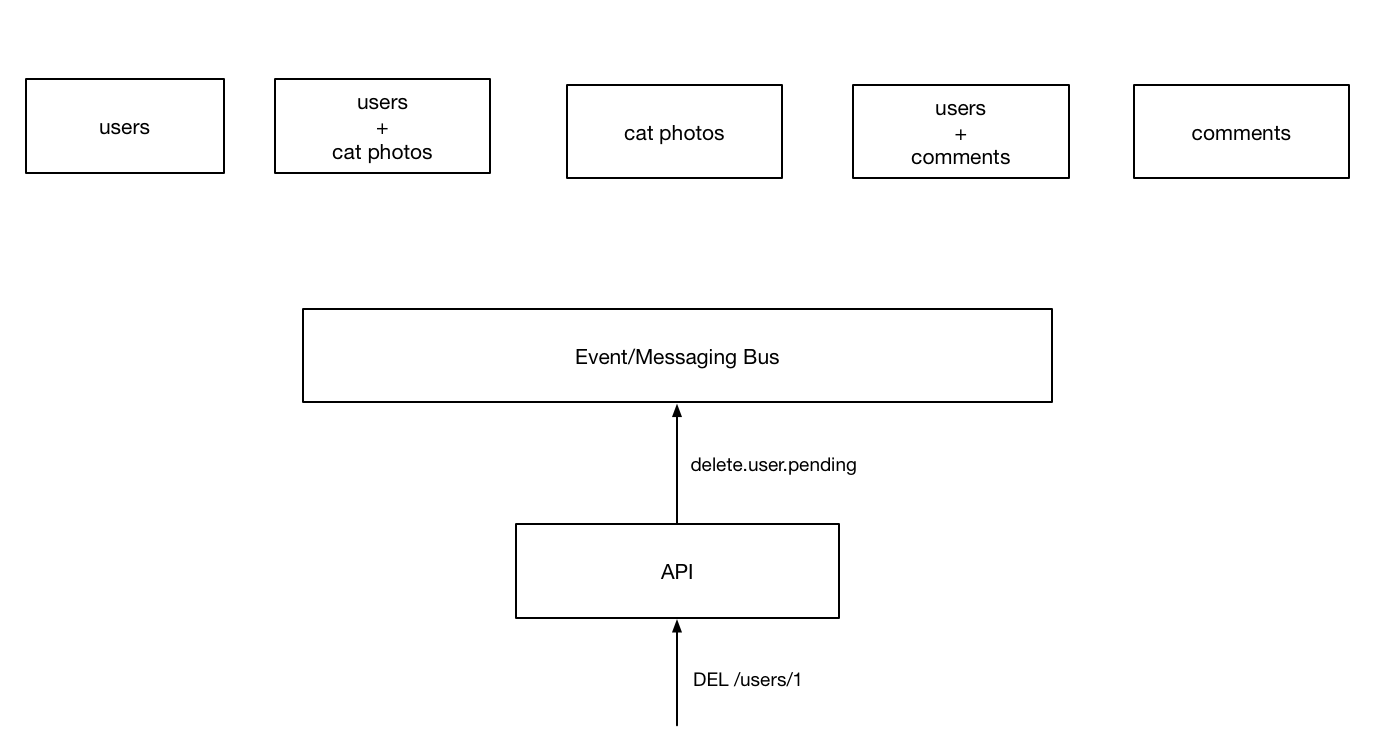
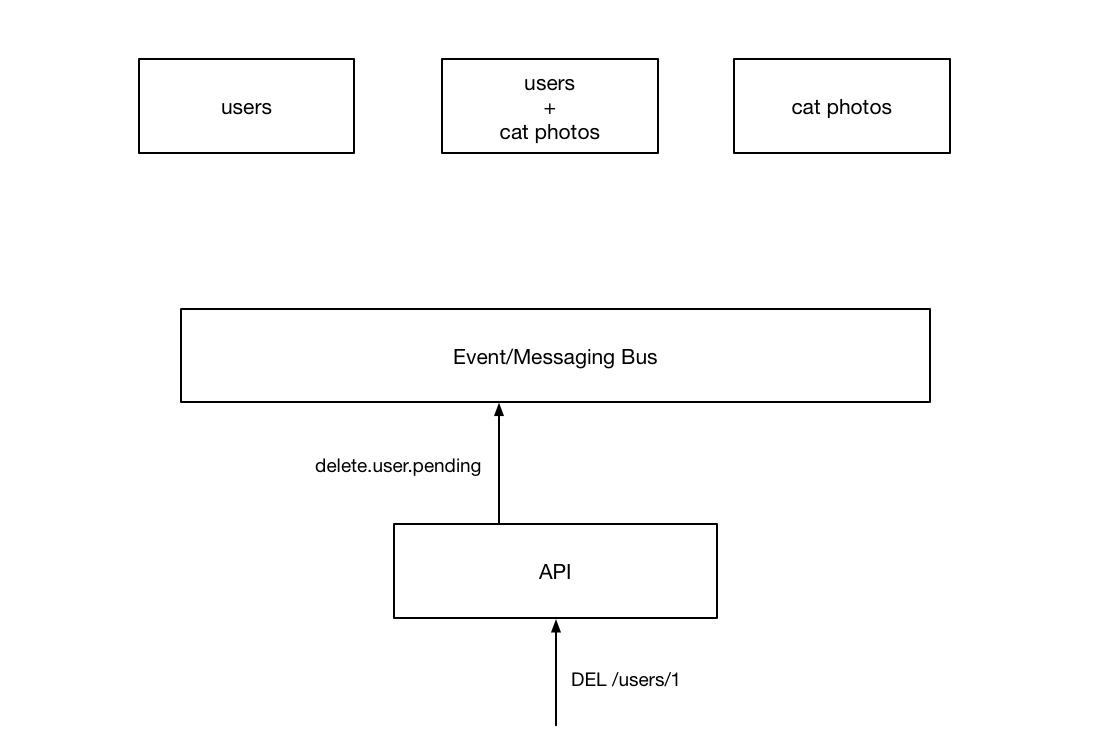
updated architecture docs photos

diff --git a/docs/source/architecture/index.rst b/docs/source/architecture/index.rst
@@ -4,9 +4,11 @@ Architecture
 Nautilus uses an event-based (also referred to as "event-sourced") architure
 that relies on a central messaging system through which all service communicate.
 
+Motivation
+-----------
 
 What's Wrong With HTTP For Inter-Service Communication?
---------------------------------------------------------
+~~~~~~~~~~~~~~~~~~~~~~~~~~~~~~~~~~~~~~~~~~~~~~~~~~~~~~~~
 Nothing. However, When one tries to apply it to a large, distributed application
 as is common today a few issues start to surface concerning its directed
 semantics. To Illustrate this, imagine that we had two services behind our
@@ -37,7 +39,16 @@ tighly coupled with each other. If something were to change in the target
 service (say the format of record's unique id), without updating the user service,
 our system would no longer be able to perform the complete action. By "polluting"
 our service with assumptions of another, we force ourselves to slow down in order
-to ensure our changes aren't going to have un-forseen consequences.
+to ensure our changes aren't going to have un-forseen consequences. This is somewhat
+alleviated by the introduction of services that maintain a very small association
+between service records - similar to how a join table works in a relational database.
+
+.. image:: http_related_cascade.png
+
+However, this does not fix all of the issues associated with handling related data
+stored across many services. In order to pull this off, the user service needs to
+maintain a list of all related services so that it can make sure the related records
+are also removed.
 
 
 
@@ -65,7 +76,7 @@ on the backend service.
 This action gets sent to all services however, the only one we are interested in
 at the moment is the user service so we will just draw that for now.
 
-.. image:: kafka_internal_comm.png
+.. image:: kafka_first_pending_simple.png
 
 After performing the specific action, the server responds with an event, indicating
 wether it was successful or not. After recieving this event, the API replies to the
